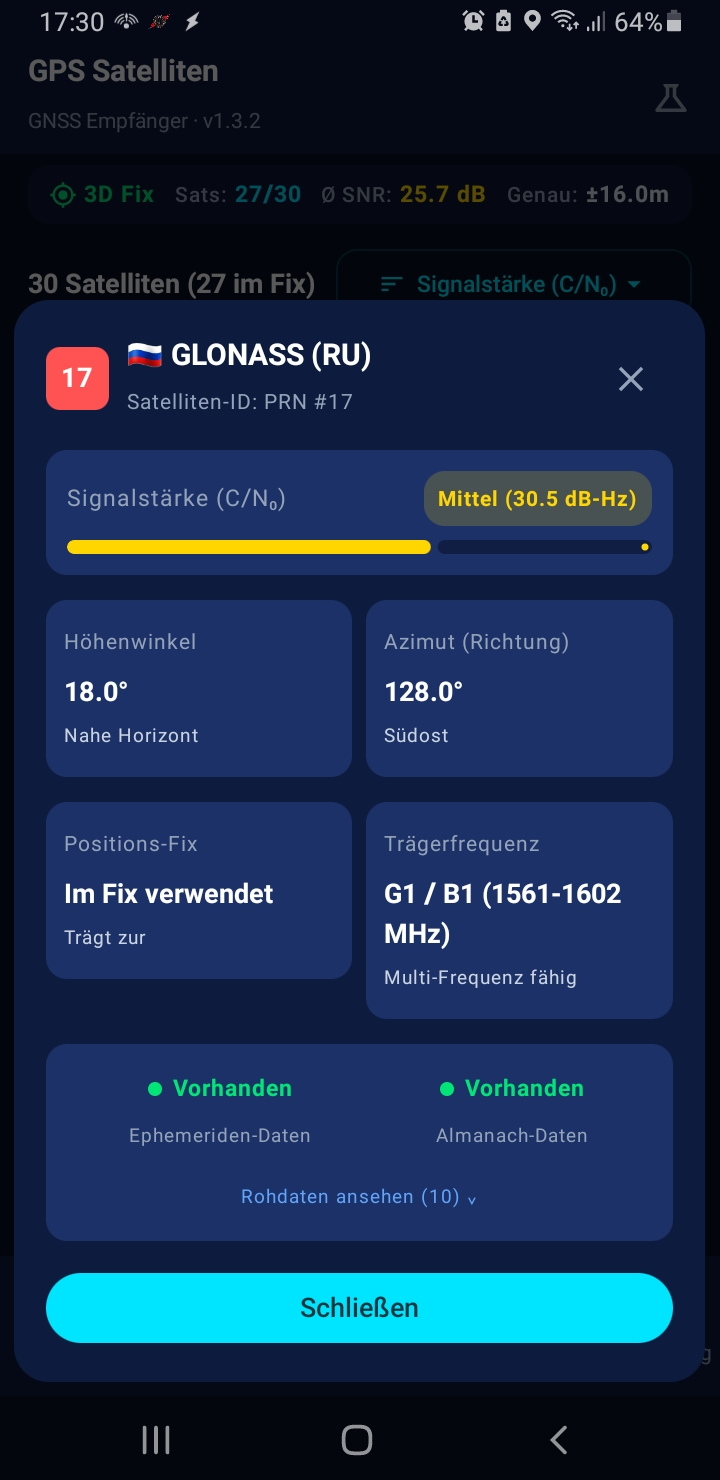
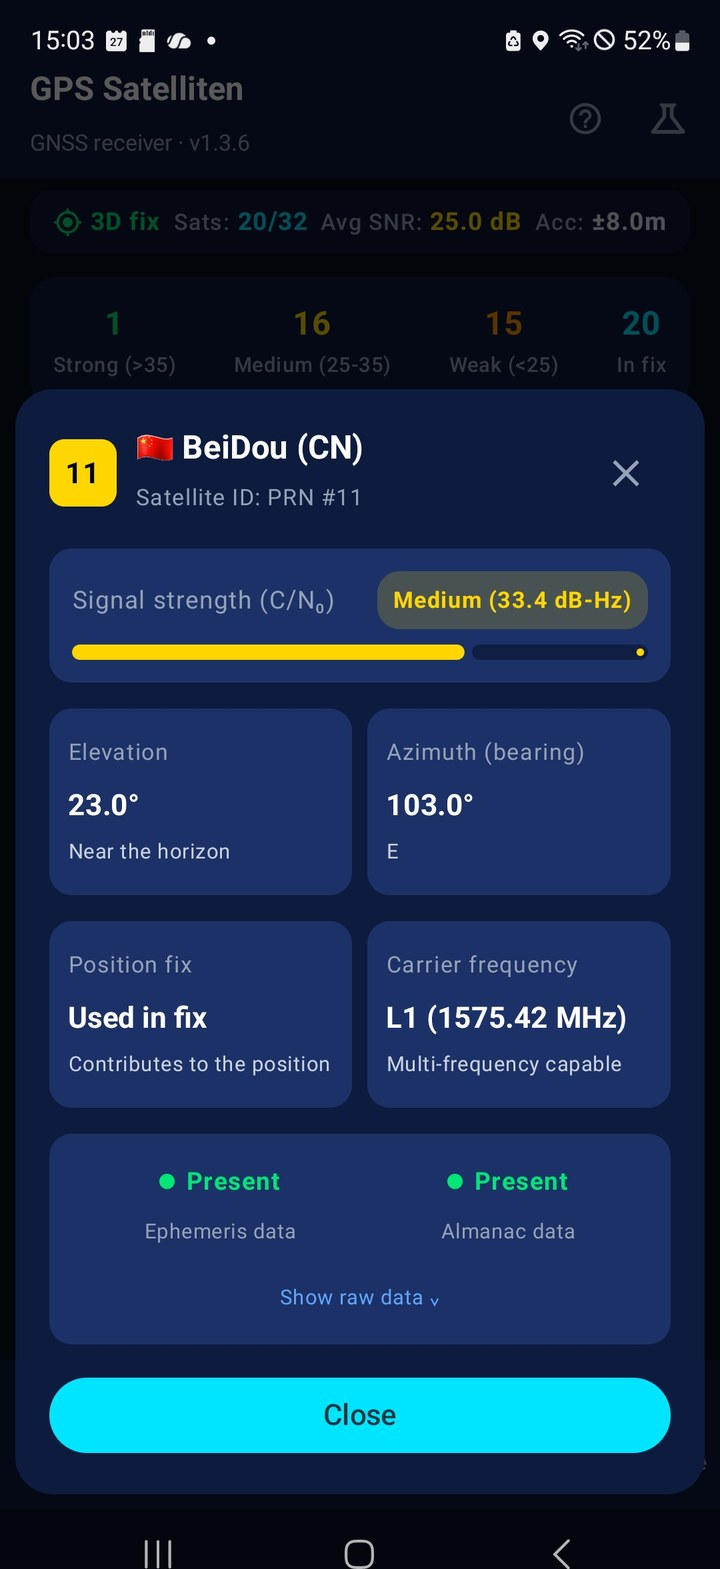
i18n: Screenshots zweisprachig, README.en.md, fastlane auf Englisch
- screenshots/ = deutscher Satz, screenshots/en/ = englischer Satz
- neue Aufnahmen (v1.3.6): Position/DOP getrennt, Koordinaten maskiert
- README.en.md als vollstaendige Uebersetzung, Sprachumschalter in beiden
- fastlane en-US zeigte bisher deutsche Bilder, jetzt englische
- check-screenshots.sh prueft beide Sprachpaare und fastlane gegen en/
- Anker im CSV-Hinweis korrigiert (rohden -> rohdaten)

diff --git a/README.en.md b/README.en.md
@@ -1,0 +1,225 @@
+# GPS Satellites 📡
+
+[Deutsch](README.md) · **English**
+
+Native Android app (Kotlin + Jetpack Compose) for **live GNSS satellite display** – with sky radar, signal analysis, position readout and full **geocaching features**. Runs completely offline, without ads and without passing any data on – reliable from an older phone up to the current flagship.
+
+## Principles (verifiable, not just claimed)
+
+- **No `INTERNET` permission.** The app is technically unable to open a connection to the outside – no tracking, no analytics, no hidden requests. Checkable in the manifest.
+- **Pure GNSS, no hybrid.** Deliberately without Wi-Fi, cell-tower or fused-location positioning and without Google Play services – satellite positioning only, so the app really stays completely offline.
+- **Tested in airplane mode.** Runs reliably and briskly on older devices without any connection.
+- **~2 MB APK.** No map SDK, no analytics library. Maps open through `geo:` intents in an external app. *(Android shows ~11 MB after installation: it stores an additional machine-translated copy of the code. Every app gets that and it cannot be switched off.)*
+
+## Download (ready-made APK) ⬇
+
+No desire to build it yourself? Just download the ready-made APK and install it directly:
+
+- **[Latest version](https://github.com/Theo555/gps-satelliten/releases/latest)** – the current release (download the APK there)
+- **[All releases](https://github.com/Theo555/gps-satelliten/releases)** – overview of every release
+
+> **Note:** The APK is signed with a test key. On first installation a **Play Protect warning** may appear – simply choose **"Install anyway"**. This warning is normal for GitHub APKs and **no sign of malicious code** – it appears because the app is not distributed through the Play Store. Requirement: Android 7.0 (API 24) or newer.
+
+## Features
+
+### 🛰 Live GNSS display
+
+- Real-time capture of received satellites (**GPS, GLONASS, Galileo, BeiDou, QZSS, SBAS**)
+- **Sky radar** – polar plot with elevation/azimuth, "North up" or "Compass up", animated radar sweep
+- **Signal strength** – C/N₀ bar chart with quality colours and a summary
+- **Satellite list** – sortable/filterable, with ephemeris/almanac status and carrier frequency
+
+### 📡 GNSS raw data & measurement
+
+- **Navigation messages** – ephemeris/almanac raw data per satellite as a hex view (in the satellite details)
+- **Measurement tab** – per satellite and frequency band (**L1/L5/L2/E1/E5a/E5b**): C/N₀, **pseudorange**, Doppler, carrier phase and multipath detection
+- **Honest display** – values the device does not deliver (e.g. pseudorange or clock drift) appear as "–" or "unknown" instead of an invented number
+- **Raw data quality** – one line with code lock, TOW, ms ambiguity and carrier phase; tap to expand the details
+- **CSV export** – the raw measurements as a **time series** (last 60 s, optionally a 5-minute recording), either RFC-compliant or for German Excel (details under [raw data export](#raw-data-export-csv))
+- Note: The measurement tab only appears on devices that support **GNSS raw measurements** (`GnssMeasurements`).
+
+### 📍 Position fix
+
+- Coordinates in three formats: **decimal degrees, DMS and DDM** (geocaching standard)
+- Accuracy, altitude (MSL), speed, course/bearing
+- **DOP values** (HDOP/VDOP/PDOP/GDOP) – computed directly from the satellite geometry
+- TTFF (time to first fix)
+
+### 🧭 Geocaching
+
+- **Waypoints** with name, GC code, hint (stored lossless; display switchable between plain text ⇄ ROT13), difficulty/terrain (D/T) and cache type
+- **Arrow navigation** to the active target (distance + bearing, relative to the viewing direction)
+- **Projection** – compute a new waypoint from bearing + distance (for multis/mysteries)
+- **Hint display** – hidden at first (spoiler protection); plain text after tapping, ROT13-decoded via the toggle
+- **Import/export** – GPX (geocaching standard) and JSON through the Android file picker. Robust XML import from various sources (Pocket Query, GSAK, c:geo) with GC code, type, D/T and hint; broken entries are skipped and reported ("X imported, Y skipped")
+- **"Open in map"** – hand a waypoint to an external map app via a `geo:` intent
+
+### 🗺 Tracks & recording
+
+- **Import tracks/routes** – GPX tracks and routes as a continuous line
+- **Follow a track** in the stored order (start at the beginning or at the nearest point)
+- **Reverse a track** – walk the route backwards (e.g. back to the start)
+- **Record your own trail** (breadcrumb) with pause/resume and rename; exportable as GPX (including altitude + timestamps)
+- **Arrival alarm** – vibration as soon as you are closer than 5 m to the active target
+- **Bearing arrow in the radar** – direction to the active target right in the sky radar
+
+### ⚙ Other
+
+- **Simulation mode** – a realistic satellite scenario when no reception is available (e.g. indoors or in the emulator)
+- **Screen stays on** – the display stays awake while a target/track is active or a recording is running
+- **Share position** – current coordinates plus a Google Maps link through the Android share menu (the app itself opens no connection – the receiving app does that)
+- Dark telemetry design
+
+## Screenshots
+
+All images are thumbnails – **click one** to open it at full size.
+
+<table>
+  <tr>
+    <td align="center"><a href="screenshots/en/radar.jpg"><img src="screenshots/en/radar.jpg" width="150" alt="Radar" /></a><br /><sub>Radar · satellites in the sky</sub></td>
+    <td align="center"><a href="screenshots/en/signal.jpg"><img src="screenshots/en/signal.jpg" width="150" alt="Signals" /></a><br /><sub>Signals · C/N₀ per satellite</sub></td>
+    <td align="center"><a href="screenshots/en/liste.jpg"><img src="screenshots/en/liste.jpg" width="150" alt="Satellite list" /></a><br /><sub>List · sortable and filterable</sub></td>
+    <td align="center"><a href="screenshots/en/position.jpg"><img src="screenshots/en/position.jpg" width="150" alt="Position" /></a><br /><sub>Position · coordinates in three formats</sub></td>
+  </tr>
+  <tr>
+    <td align="center"><a href="screenshots/en/navigation.jpg"><img src="screenshots/en/navigation.jpg" width="150" alt="Navigation" /></a><br /><sub>Navigation · target with direction</sub></td>
+    <td align="center"><a href="screenshots/en/liste-detail.jpg"><img src="screenshots/en/liste-detail.jpg" width="150" alt="Satellite details" /></a><br /><sub>Details · signal, angles, ephemeris</sub></td>
+    <td align="center"><a href="screenshots/en/liste-rohdaten.jpg"><img src="screenshots/en/liste-rohdaten.jpg" width="150" alt="GNSS raw data" /></a><br /><sub>Raw data · navigation messages</sub></td>
+    <td align="center"><a href="screenshots/en/position-dop.jpg"><img src="screenshots/en/position-dop.jpg" width="150" alt="DOP values" /></a><br /><sub>Accuracy · DOP values</sub></td>
+  </tr>
+  <tr>
+    <td align="center"><a href="screenshots/en/messung.jpg"><img src="screenshots/en/messung.jpg" width="150" alt="Measurements (raw data)" /></a><br /><sub>Measurement · raw data per signal path</sub></td>
+    <td align="center"><a href="screenshots/en/messung-export.jpg"><img src="screenshots/en/messung-export.jpg" width="150" alt="CSV export dialog" /></a><br /><sub>Export · CSV with two profiles</sub></td>
+    <td></td>
+    <td></td>
+  </tr>
+</table>
+
+## Technology
+
+| | |
+|---|---|
+| Language | Kotlin 2.2 |
+| UI | Jetpack Compose (Material 3) |
+| Architecture | MVVM (`ViewModel` + `StateFlow`) |
+| GNSS | `GnssStatusCompat`, `GnssMeasurements`, `GnssNavigationMessage`, `LocationManager`, compass sensors |
+| minSdk / targetSdk | 24 (Android 7.0) / 36 |
+| Build | AGP 9.x, Gradle 9.3 (wrapper), R8 + resource shrinking |
+
+## Requirements
+
+- Android 7.0 (API 24) or newer – tested from older devices (e.g. Galaxy Note9) up to current flagships (e.g. S26 Ultra)
+- Android Studio (recommended) **or** Gradle 9.3 + JDK 17 + Android SDK 36
+
+> **Note:** Some features depend on the hardware. The **measurement tab** (GNSS raw data) and the **navigation messages** only appear if the device's GNSS chipset supports `GnssMeasurements` and `GnssNavigationMessage`; the constellations you can receive are device-specific as well. All other features (radar, signals, position, geocaching, tracks) run on every supported device.
+
+## Building
+
+```bash
+# Set the SDK path (if not detected automatically)
+echo "sdk.dir=/path/to/android-sdk" > local.properties
+
+# Debug APK
+./gradlew assembleDebug
+
+# Release APK (minified, ~2 MB)
+./gradlew assembleRelease
+```
+
+The release APK is then located at `app/build/outputs/apk/release/app-release.apk`.
+
+> **Note on signing:** The release build needs a signing key (see `signingConfigs` in `app/build.gradle.kts`). For a Play Store release, create your **own** upload key and keep it safe – a key that lives in the project is meant for local tests only.
+
+## Using it as a geocaching companion
+
+1. Download a pocket query from geocaching.com as **GPX**.
+2. Import it in the app under **Nav → Import (GPX/JSON)**.
+3. Tap a cache in the list to make it the **active target**.
+4. Follow the **bearing arrow** (distance + bearing).
+5. Show the hint via **"Show hint"** and pick the representation with the **plain text ⇄ ROT13** toggle. Mark the cache as **"found"**.
+6. For multis/mysteries: use **projection** or add new waypoints **manually** (coordinates in decimal/DMS/DDM).
+
+## Creating your own tracks
+
+Your own hiking/cycling routes are easy to create with **[BRouter](https://brouter.de/brouter-web)**: draw the route → export as **GPX** → import it in the app under **Nav → Import (GPX/JSON)** and follow the route. Faster and without an account also works with **[GraphHopper Maps](https://graphhopper.com/maps/)**.
+
+## Viewing and reusing tracks
+
+Recorded tracks leave the app as **GPX** and can be opened anywhere GPX is read. A selection – all links checked (as of 10/2026):
+
+| Purpose | Tool | Note |
+|---|---|---|
+| View, edit | **[gpx.studio](https://gpx.studio)** | Open source, computes in the browser – the file never leaves the device. Elevation profile, cut/join/reverse |
+| View, analyse | **[GPSVisualizer](https://www.gpsvisualizer.com)** | Very powerful (profiles, statistics, conversion into many formats), but uploads the file |
+| View in 3D | **[VisuGPX](https://www.visugpx.com)** | Account required to save |
+| Quick look | **[onlinemapmaker](https://onlinemapmaker.com/de/gpx-online-file-viewer-view-gpx-data-on-map-get-elevation-profile/)** | Map + elevation profile, ad-funded |
+| Offline on the desktop | **[GPXSee](https://www.gpxsee.org)** | Open source for Windows/macOS/Linux, fast |
+| Convert | **[GPSBabel](https://www.gpsbabel.org)** | The classic for formats, runs offline |
+| Offline on the phone | **[OsmAnd](https://f-droid.org/packages/net.osmand.plus/)** · **[Organic Maps](https://f-droid.org/packages/app.organicmaps/)** | Both from F-Droid, offline maps |
+| Maps | **[OpenStreetMap](https://www.openstreetmap.org)** · **[OpenTopoMap](https://opentopomap.org)** | |
+| Analysis | **[QGIS](https://qgis.org)** | Also useful for the CSV export of the raw measurements |
+
+If you would rather not hand out your own neighbourhood: **gpx.studio**, **GPXSee**, **GPSBabel** and **QGIS** compute on your own device. **GPSVisualizer** and **VisuGPX** get the file on their server.
+
+## Raw data export (CSV)
+
+In the **measurement tab** the export card writes the raw measurements as CSV – one row per satellite, frequency band and epoch. The export automatically contains the **last 60 seconds** (ring buffer), i.e. a short time series instead of a single instant. For longer captures there is **"Record 5 min"**: the recording stops by itself and then offers the export. Meant for analysis with Excel, pandas, QGIS or gnuplot.
+
+**Two profiles** – the characters are deliberately coupled, not freely combinable:
+
+| Profile | Separator | Decimal mark | BOM | Fits |
+|---|---|---|---|---|
+| **universal (RFC)** | `,` | `.` | no | pandas, QGIS, gnuplot, R (RFC 4180) |
+| **Excel (German)** | `;` | `,` | yes | German Excel – opens straight into columns |
+
+German Excel separates lists with `;` and decimal numbers with `,`; an RFC file ends up entirely in column A there. Hence two fixed profiles instead of individual switches.
+
+**Structure:** `#` comment lines with device, Android and app version, UTC timestamp and the meaning of the flags, followed by the header row and the measured values. Missing values stay empty – no `null`, no `–`. *(The comment keys are written in German by the app; the column names are language-neutral.)*
+
+```text
+# format = RFC 4180 · UTF-8 · CRLF · Trennzeichen Komma · Dezimalzeichen Punkt
+# export_utc = 2026-10-25T12:33:07Z
+# geraet = samsung SM-N960F · hardware qcom · board msm8998
+# aufzeichnung = 60 Epochen · 2140 Zeilen · 1 Epoche = ein GnssMeasurementsEvent
+# flags = state_flags: GnssMeasurement.getState() · code_lock/tow_known/msec_ambiguous: 1 ja, 0 nein
+epoch,svid,constellation,band,freq_hz,cn0_dbhz,time_ns,full_bias_ns,bias_ns,drift_nsps,leap_s,week_offset_ns,t_tx_raw_ns,t_tx_ns,sv_time_unc_ns,pseudorange_m,doppler_mps,adr_m,adr_state,phase_unc_m,state_flags,code_lock,tow_known,msec_ambiguous,multipath
+```
+
+`epoch` numbers the measurement sets (1 = the oldest in the export); gaps mean the chip delivered nothing at that moment. `adr_m` is the **accumulated delta range** – relative to the start time, not an absolute carrier phase. `time_ns` is the receiver time, `t_tx_ns` the satellite's transmission time; `full_bias_ns`, `bias_ns`, `drift_nsps` and `leap_s` are the receiver clock.
+
+**Reading it in:**
+
+```python
+import pandas as pd
+df = pd.read_csv("rawdata_universal.csv", comment="#")
+```
+
+In Excel choose the **"Excel (German)"** profile and open the file directly – or import the universal file via *Data → From Text/CSV*.
+
+**Cross-check:** the pseudorange can be recomputed from the timestamps –
+`(time_ns − full_bias_ns − bias_ns − t_tx_ns) · 1e-9 · c ≈ pseudorange_m`.
+
+**Limits, honestly:** `export_utc` is the device clock, not GNSS time. If the chipset reports no quality attributes, the flag columns stay at 0 – the app does not guess anything.
+
+**More raw data from the device:** Android's **developer options** contain the switch "Force full GNSS measurements". With it the chip tracks fully all the time instead of going into power-saving mode – that yields more signals and more frequently set status bits. The price is **higher battery drain**, which is why the option is off by default; for an export it is worth enabling temporarily. How much it helps depends on the chipset. The app cannot toggle this system setting itself.
+
+## Project structure
+
+```
+app/src/main/java/de/gpsradar/satellites/
+├── gps/               GpsDataManager (GNSS status + compass) · RawGnssManager (raw measurements)
+├── model/             Data models, DOP computation, coordinate parser, GPX/JSON codec
+├── ui/                ViewModel + Compose screens and components
+└── MainActivity.kt    App entry point with tab navigation
+```
+
+## Support
+
+If you like the app and want to support its further development, a small voluntary donation is very welcome:
+**[paypal.me/gps-satelliten](https://paypal.me/gps-satelliten)**
+
+Every feature is fully usable without a donation – no ads, no tracking, no subscriptions.
+
+## License
+
+[MIT](LICENSE) © 2026 TK

diff --git a/README.md b/README.md
@@ -1,5 +1,7 @@
 # GPS Satelliten 📡
 
+**Deutsch** · [English](README.en.md)
+
 Native Android-App (Kotlin + Jetpack Compose) zur **Live-Anzeige von GNSS-Satelliten** – mit Himmels-Radar, Signalanalyse, Positionsanzeige und vollwertigen **Geocaching-Funktionen**. Läuft komplett offline, ohne Werbung und ohne Datenweitergabe – zuverlässig vom älteren Smartphone bis zum aktuellen Flaggschiff.
 
 ## Prinzipien (prüfbar, nicht nur behauptet)
@@ -33,7 +35,7 @@ Keine Lust, selbst zu kompilieren? Lade einfach die fertige APK herunter und ins
 - **Messung-Tab** – pro Satellit und Frequenzband (**L1/L5/L2/E1/E5a/E5b**): C/N₀, **Pseudorange**, Doppler, Trägerphase und Multipfad-Erkennung
 - **Ehrliche Anzeige** – Werte, die das Gerät nicht liefert (z. B. Pseudorange oder Uhr-Drift), erscheinen als „–“ bzw. „unbekannt“ statt als Fantasiezahl
 - **Rohdaten-Qualität** – eine Zeile mit Code-Lock, TOW, ms-Mehrdeutigkeit und Trägerphase; antippen klappt Details auf
-- **CSV-Export** – die Roh-Messungen als **Zeitreihe** (letzte 60 s, optional 5 Minuten Aufzeichnung), wahlweise RFC-konform oder für deutsches Excel (Details unter [Rohdaten-Export](#rohden-export-csv))
+- **CSV-Export** – die Roh-Messungen als **Zeitreihe** (letzte 60 s, optional 5 Minuten Aufzeichnung), wahlweise RFC-konform oder für deutsches Excel (Details unter [Rohdaten-Export](#rohdaten-export-csv))
 - Hinweis: Der Messung-Tab erscheint nur auf Geräten, die **GNSS-Roh-Messungen** (`GnssMeasurements`) unterstützen.
 
 ### 📍 Positionsbestimmung
